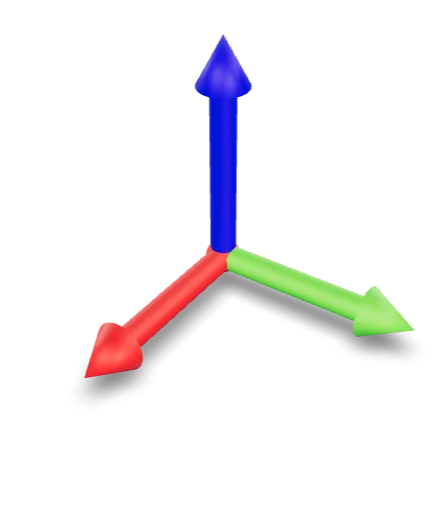
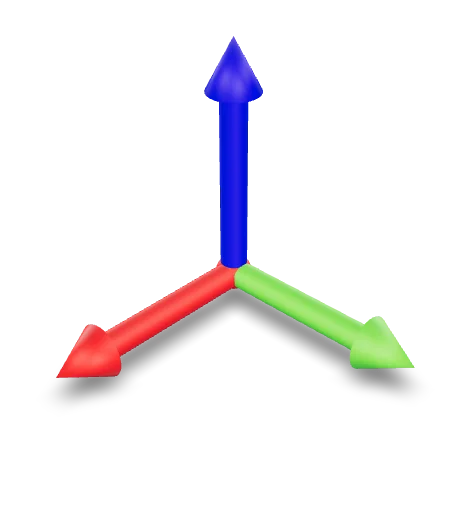
New model files
xyzaxes added for 4A cross product

Changed region(s): [[0.3781, 0.0625, 0.9306, 0.7812], [0.1163, 0.5625, 0.3781, 0.7812]]

diff --git a/XYZaxes/index.html b/XYZaxes/index.html
@@ -11,7 +11,7 @@
   </head>
   <body>
     <!-- <model-viewer> HTML element -->
-    <model-viewer bounds="tight" enable-pan src="XYZaxes.glb" ar ar-modes="webxr scene-viewer quick-look" camera-controls environment-image="neutral" poster="poster.webp" shadow-intensity="1" camera-target="0m 0m 0m" camera-orbit="123.7deg 53.69deg auto">
+    <model-viewer bounds="tight" enable-pan src="xyzaxes.glb" ar ar-modes="webxr scene-viewer quick-look" camera-controls environment-image="neutral" poster="poster.webp" shadow-intensity="1" camera-orbit="133.3deg 56.27deg auto">
       <div class="progress-bar hide" slot="progress-bar">
           <div class="update-bar"></div>
       </div>

diff --git a/test/index.html b/test/index.html
@@ -1,0 +1,1 @@
+<HTML>Hello World!</HTML>
